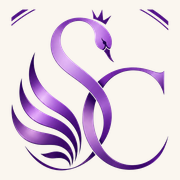
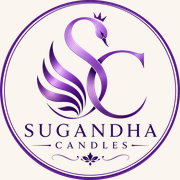
Put the circle on the tab as well
The bare swan was kept for the tab on the grounds that a ring around
the SUGANDHA CANDLES lettering is a smudge at 16px. Owner looked at it
and wants the one mark everywhere, which is a fair call: the 16px face
is the only one that suffers, and a retina screen asks for the 32px
face, where the ring and the swan both survive.

make-logo.py now feeds seal() to every output, so there is one mark to
maintain rather than two.

diff --git a/scripts/make-logo.py b/scripts/make-logo.py
@@ -13,9 +13,11 @@ handling before it can go on a cream page:
     flat spot at the bottom, so the ellipse is fitted, stretched to a true
     circle, and the clipped arc filled from a drawn annulus underneath.
 
-The tab icons deliberately use the bare swan monogram rather than the circular
-seal: at 16px a ring plus the SUGANDHA CANDLES lettering is an unreadable
-smudge, and the ring alone costs the swan about a third of its width.
+Every asset, tab icons included, is the same circular seal, so the mark in the
+tab matches the one in the header. It is a compromise at 16px — the lettering
+inside the ring goes to mush — but retina screens ask for the 32px face, where
+the ring and the swan both hold up, and one consistent mark was worth more than
+a sharper 16px one.
 """
 
 import os
@@ -32,7 +34,6 @@ SRC = ROOT / "scripts" / "logo-source.jpg"
 CX, CY, RX, RY = 623.2, 632.4, 591.7, 622.9
 RING_RGB = (83, 21, 135)          # median colour of the outer stroke
 RING_PX = 16                      # its thickness, in source pixels
-MONOGRAM = (275, 92, 997, 833)    # crowned swan + SC, ring and wordmark excluded
 CREAM = (250, 246, 239, 255)      # --color-canvas
 
 
@@ -77,15 +78,6 @@ def seal(art):
     return out
 
 
-def monogram(art):
-    """The swan alone, padded to a square."""
-    mark = art.crop(MONOGRAM)
-    side = max(mark.size) + 2 * int(max(mark.size) * 0.06)
-    out = Image.new("RGBA", (side, side), (0, 0, 0, 0))
-    out.alpha_composite(mark, ((side - mark.width) // 2, (side - mark.height) // 2))
-    return out
-
-
 def write(img, rel, box, flatten=None):
     img = img.copy()
     img.thumbnail(box, Image.LANCZOS)
@@ -100,10 +92,8 @@ def write(img, rel, box, flatten=None):
 
 
 def main():
-    art = artwork()
-    write(seal(art), "public/logo.png", (400, 400))
-
-    mark = monogram(art)
+    mark = seal(artwork())
+    write(mark, "public/logo.png", (400, 400))
     write(mark, "src/app/icon.png", (192, 192))
     # Apple composites transparency onto black, so bake the page colour in.
     write(mark, "src/app/apple-icon.png", (180, 180), flatten=CREAM)

diff --git a/CONTEXT.md b/CONTEXT.md
@@ -343,6 +343,8 @@ then Merchant Center. Reasoning for all of it is in the SEO section.
 
 _Newest first. Add an entry for every change — one line is fine. Format: `YYYY-MM-DD — what changed`._
 
+- 2026-09-06 — **Tab icons are the circular seal too** — overrides the "tab icons stay the bare swan" note in the entry below. Owner asked for one mark everywhere. The 16px face does go to mush, which is why it was not done this way first, but retina screens request the 32px face and that one holds up. `scripts/make-logo.py` now feeds `seal()` to every output, so there is a single mark to maintain.
+
 - 2026-09-06 — **Site logo is the full circular seal, not the monogram — this supersedes the entry below it.** The seal as drawn is an *ellipse*, 5.3% taller than wide (fitted cx 623.2, cy 632.4, rx 591.7, ry 622.9), and the source frame clipped the bottom of the ring, so "just crop it" gives a lopsided oval with a flat spot. `scripts/make-logo.py` fits the ellipse, stretches x by ry/rx to make it a true circle, lays a perfect annulus underneath to fill the clipped arc, and masks to a circle — `public/logo.png`, 400px. Header 44px, footer 56px, admin 36px; `public/logo-mark.png` deleted. **The tab icons stay the bare swan monogram on purpose:** a 16px favicon carrying the ring *and* the wordmark is an unreadable smudge, and the ring costs the swan about a third of its width.
 
 - 2026-09-06 — **The real brand logo is now on the site and in the browser tab.** The source was a JPEG of the purple swan seal on white, so the white was lifted to alpha (and edge pixels un-blended from white) to give `public/logo.png` — the full seal — and `public/logo-mark.png` — the crowned-swan monogram alone. **The header, footer and admin rail use the monogram, not the full seal:** the seal's own "SUGANDHA CANDLES" lettering turns to mush below ~120px and would have duplicated the wordmark sitting next to it. Tab icons follow Next's file conventions — `src/app/icon.png` (192px), `src/app/apple-icon.png` (180px, flattened onto cream because Apple composites transparency onto black) and a rebuilt `src/app/favicon.ico` (16/32/48) replacing the stock Next one Google had been showing. Also filled in the long-open `logo` field on the `Organization` JSON-LD, pointing at the full seal.
